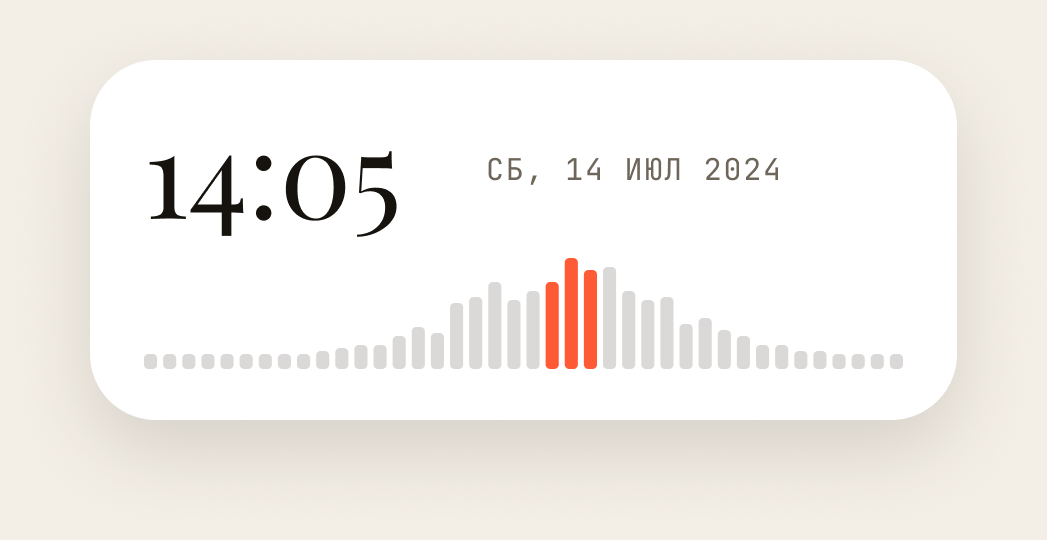
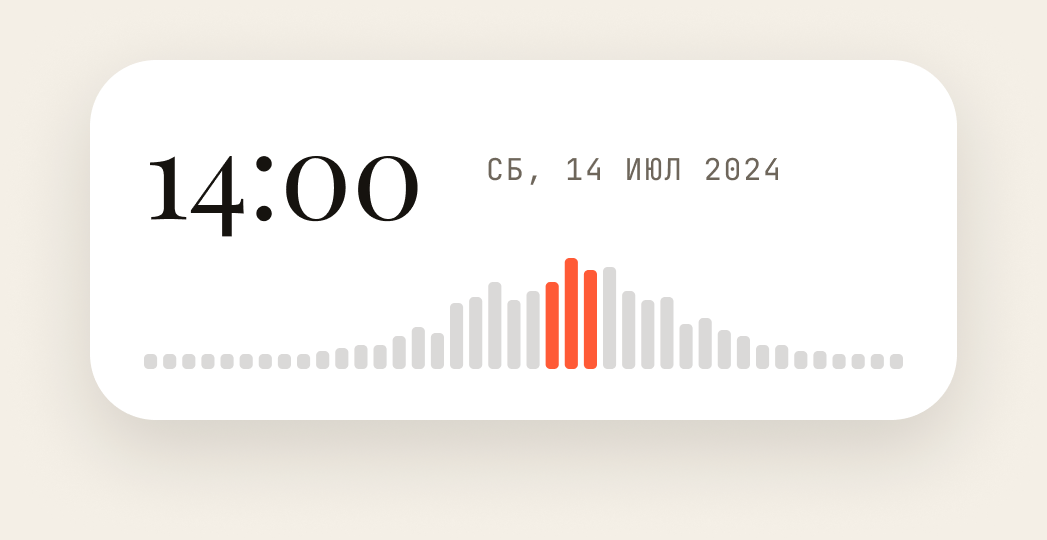
A2: шаг времени 15 минут в тексте, на карточке 14:00
Claude-Session: https://claude.ai/code/session_01BCSRWjw6cF2GhSHFpKUVq4

Changed region(s): [[0.3056, 0.2667, 0.3973, 0.4444], [0.1528, 0.3259, 0.2139, 0.4148], [0.2751, 0.2963, 0.3056, 0.3259]]

diff --git a/src/app/welcome.tsx b/src/app/welcome.tsx
@@ -121,7 +121,7 @@ function A2({ width, onSkip, onNext }: { width: number; onSkip: () => void; onNe
       <View onLayout={onText} style={[styles.textBlock, { bottom: insets.bottom + 91 }]}>
         <Text style={styles.step}>02 / 03</Text>
         <Text style={styles.title}>Выбирайте не только «где», но и «когда»</Text>
-        <Text style={styles.body}>Листайте время до минуты и смотрите, что происходило здесь год или пять лет назад.</Text>
+        <Text style={styles.body}>Листайте время с точностью до 15 минут и смотрите, что происходило здесь год или пять лет назад.</Text>
       </View>
       <Bottom i={1} dark={false} onNext={onNext} />
     </View>
